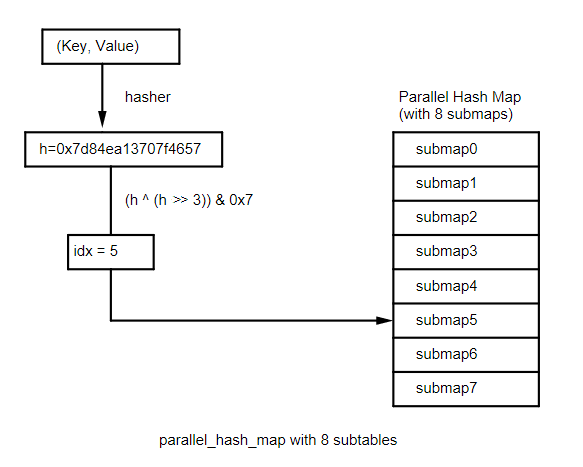
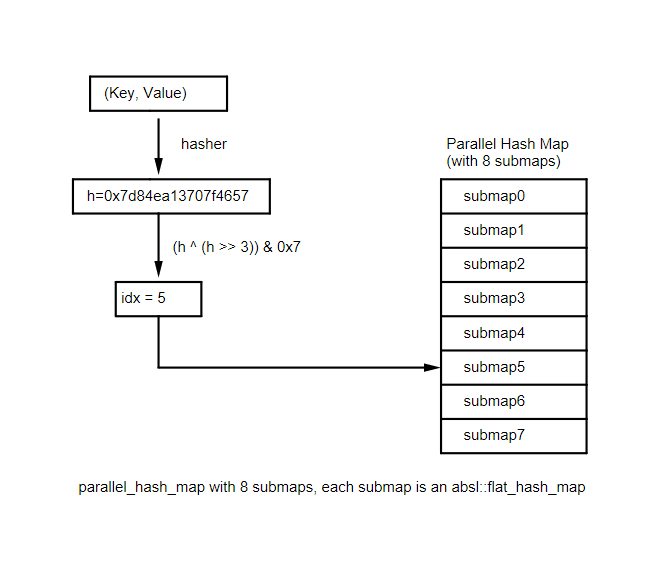
wip

Changed region(s): [[0.0309, 0.06, 0.9262, 0.8994], [0.247, 0.9293, 0.6792, 0.9593]]

diff --git a/bench.cc b/bench.cc
@@ -165,14 +165,14 @@ void _fill_random_inner_mt(int64_t cnt, HT &hash, RSU &rsu)
     auto thread_fn = [&hash, cnt, num_threads](int64_t thread_idx, RSU rsu) {
 #ifdef MT_SUPPORT
         typename HT::hasher hasher;                         // get hasher object from the hash table
-        size_t modulo = hash.subcnt() / num_threads;        // subcnt() returns the number of subtables
+        size_t modulo = hash.subcnt() / num_threads;        // subcnt() returns the number of submaps
 
         for (int64_t i=0; i<cnt; ++i)                       // iterate over all values
         {
             unsigned int key = rsu.next();                  // get next key to insert
             size_t hashval = hasher(key);                   // compute its hash
-            size_t idx  = hash.subidx(hashval);             // compute the subtable index for this hash
-            if (idx / modulo == thread_idx)                 // if the subtable is suitable for this thread
+            size_t idx  = hash.subidx(hashval);             // compute the submap index for this hash
+            if (idx / modulo == thread_idx)                 // if the submap is suitable for this thread
             {
                 hash.insert(typename HT::value_type(key, 0)); // insert the value
                 ++(num_keys[thread_idx]);                     // increment count of inserted values

diff --git a/README.md b/README.md
@@ -39,10 +39,9 @@ If only there was a way to eliminate those peaks, the flat_hash_map would be clo
 
 ### Peak memory usage: the solution
 
-Suddenly, it hit me. I had a solution. I would create a hash table that internally is made of an array of 16 hash tables.
-When inserting or looking up an item, the index of the internal hash table would be decided by the hash of the value to insert. For example, if for a given `size_t hashval`, the index for the internal table could be: 
+Suddenly, it hit me. I had a solution. I would create a hash table that internally is made of an array of 16 hash tables (the submaps). When inserting or looking up an item, the index of the target submap would be decided by the hash of the value to insert. For example, if for a given `size_t hashval`, the index for the inner submap would be computed with: 
 
-`subtable_index = (hashval ^ (hashval >> 4)) & 0xF;`
+`submap_index = (hashval ^ (hashval >> 4)) & 0xF;`
 
 providing an index between 0 and 15.
 
@@ -98,15 +97,15 @@ This is already looking pretty good. For large hash_maps, the parallel_flat_hash
 
 But there is another aspect of the inherent parallelism of the parallel_hash_map which is interesting to explore. As we know, typical hash maps cannot be modified from multiple threads without explicit synchronization. And bracketing write accesses to a shared hash_map with synchronization primitives, such as mutexes, can reduce the concurrency of our program, and even cause deadlocks.
 
-Because the parallel_hash_map is built of sixteen separate subtables, it posesses some intrinsic parallelism. Indeed, suppose you can make sure that different threads will use different subtables, you would be able to insert into the same parallel_hash_map at the same time from the different threads without any locking. 
+Because the parallel_hash_map is built of sixteen separate submaps, it posesses some intrinsic parallelism. Indeed, suppose you can make sure that different threads will use different submaps, you would be able to insert into the same parallel_hash_map at the same time from the different threads without any locking. 
 
 ### Using the intrinsic parallelism of the parallel_hash_map to insert values from multiple threads, lock free.
 
 So, if you can iterate over the values you want to insert into the hash table, the idea is that each thread will iterate over all values, and then for each value:
 
 1. compute the hash for that value
-2. compute the subtable index for that hash
-3. if the subtable index is the assigned to this thread, do nothing and continue to the next value, otherwise insert the value
+2. compute the submap index for that hash
+3. if the submap index is one assigned to this thread, then insert the value, otherwise do nothing and continue to the next value  
 
 Here is the code for the single-threaded insert:
 
@@ -133,14 +132,14 @@ void _fill_random_inner_mt(int64_t cnt, HT &hash, RSU &rsu)
 
     auto thread_fn = [&hash, cnt, num_threads](int64_t thread_idx, RSU rsu) {
         typename HT::hasher hasher;                         // get hasher object from the hash table
-        size_t modulo = hash.subcnt() / num_threads;        // subcnt() returns the number of subtables
+        size_t modulo = hash.subcnt() / num_threads;        // subcnt() returns the number of submaps
 
         for (int64_t i=0; i<cnt; ++i)                       // iterate over all values
         {
             unsigned int key = rsu.next();                  // get next key to insert
             size_t hashval = hasher(key);                   // compute its hash
-            size_t idx  = hash.subidx(hashval);             // compute the subtable index for this hash
-            if (idx / modulo == thread_idx)                 // if the subtable is suitable for this thread
+            size_t idx  = hash.subidx(hashval);             // compute the submap index for this hash
+            if (idx / modulo == thread_idx)                 // if the submap is suitable for this thread
             {
                 hash.insert(typename HT::value_type(key, 0)); // insert the value
                 ++(num_keys[thread_idx]);                     // increment count of inserted values
@@ -171,9 +170,9 @@ And the graphical visualization of the results:
 
 ![mt_stl_flat_par comparison](https://github.com/greg7mdp/parallel-hashmap/blob/master/img/mt_stl_flat_par_both_run2.PNG?raw=true)
 
-We notice in this last graph that the memory usage peaks, while still smaller than those of the flat_hast_map, are larger that those we saw when populating the parallel_hash_map using a single thread. The obvious reason is that, when using a single thread, only one of the subtables would resize at a time, ensuring that the peak would only be 1/16th of the one for the flat_hash_map (provided of course that the hash function distributes the values somewhat evenly between the subtables).
+We notice in this last graph that the memory usage peaks, while still smaller than those of the flat_hast_map, are larger that those we saw when populating the parallel_hash_map using a single thread. The obvious reason is that, when using a single thread, only one of the submaps would resize at a time, ensuring that the peak would only be 1/16th of the one for the flat_hash_map (provided of course that the hash function distributes the values somewhat evenly between the submaps).
 
-When running in multi-threaded mode (in this case eight threads), potentially as many as eight subtables can resize simultaneaously, so for a parallel_hash_map with sixteen subtables the memory peak size can be half as large as the one for the flat_hash_map.
+When running in multi-threaded mode (in this case eight threads), potentially as many as eight submaps can resize simultaneaously, so for a parallel_hash_map with sixteen submaps the memory peak size can be half as large as the one for the flat_hash_map.
 
 Still, this is a pretty good result, we are now inserting values into our parallel_hash_map three times faster than we were able to do using the flat_hash_map, while using a lower memory ceiling.
 
